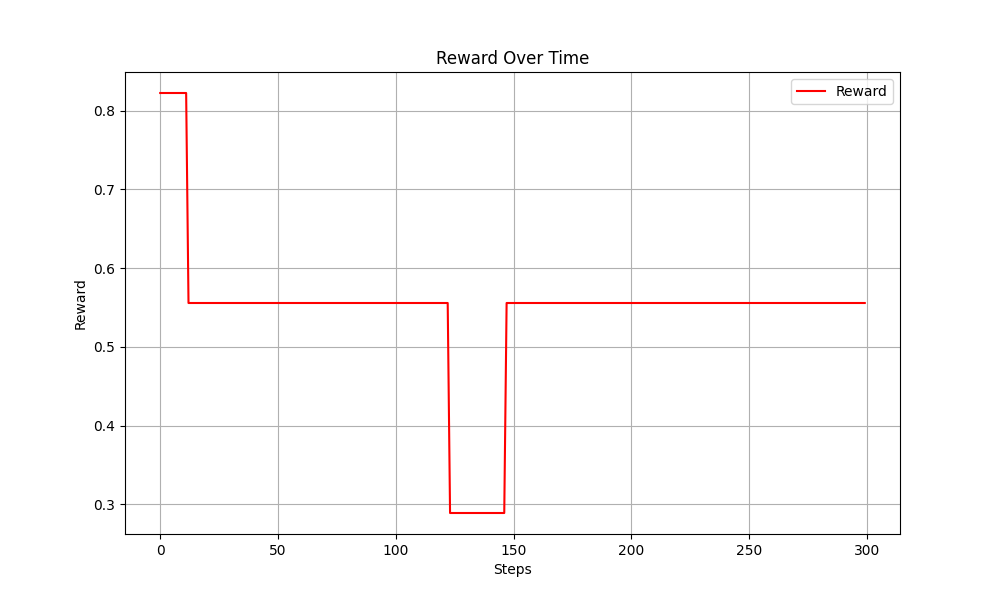
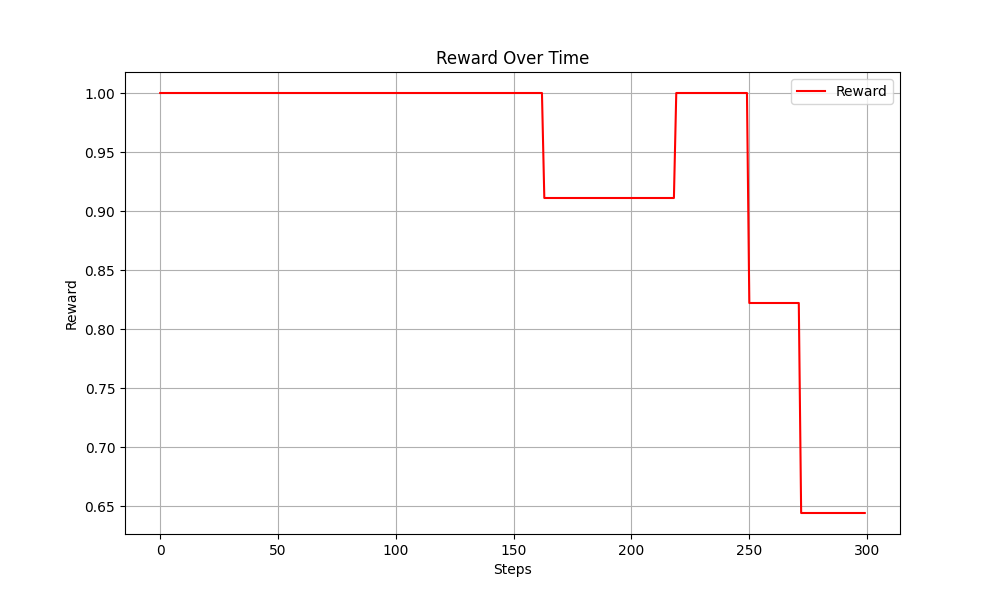
added random seed

diff --git a/ns3-gym_test/ns3-gym_test.cc b/ns3-gym_test/ns3-gym_test.cc
@@ -12,6 +12,7 @@
 #include <ns3/antenna-module.h>
 #include "ns3/trace-source-accessor.h"
 #include "ns3/opengym-module.h"
+#include <ctime> 
 
 using namespace ns3;
 
@@ -835,6 +836,10 @@ int main(int argc, char *argv[]) {
 
     std::cout << "Starting LTE simulation with " << numEnb 
               << " eNBs and " << numUes << " UEs." << std::endl;
+
+    // Use the current system time as the seed
+    unsigned int seed = static_cast<unsigned int>(time(0));
+    ns3::SeedManager::SetSeed(seed); // so that random variables are different everytime
 
     NodeContainer enbNodes;
     enbNodes.Create(numEnb);
